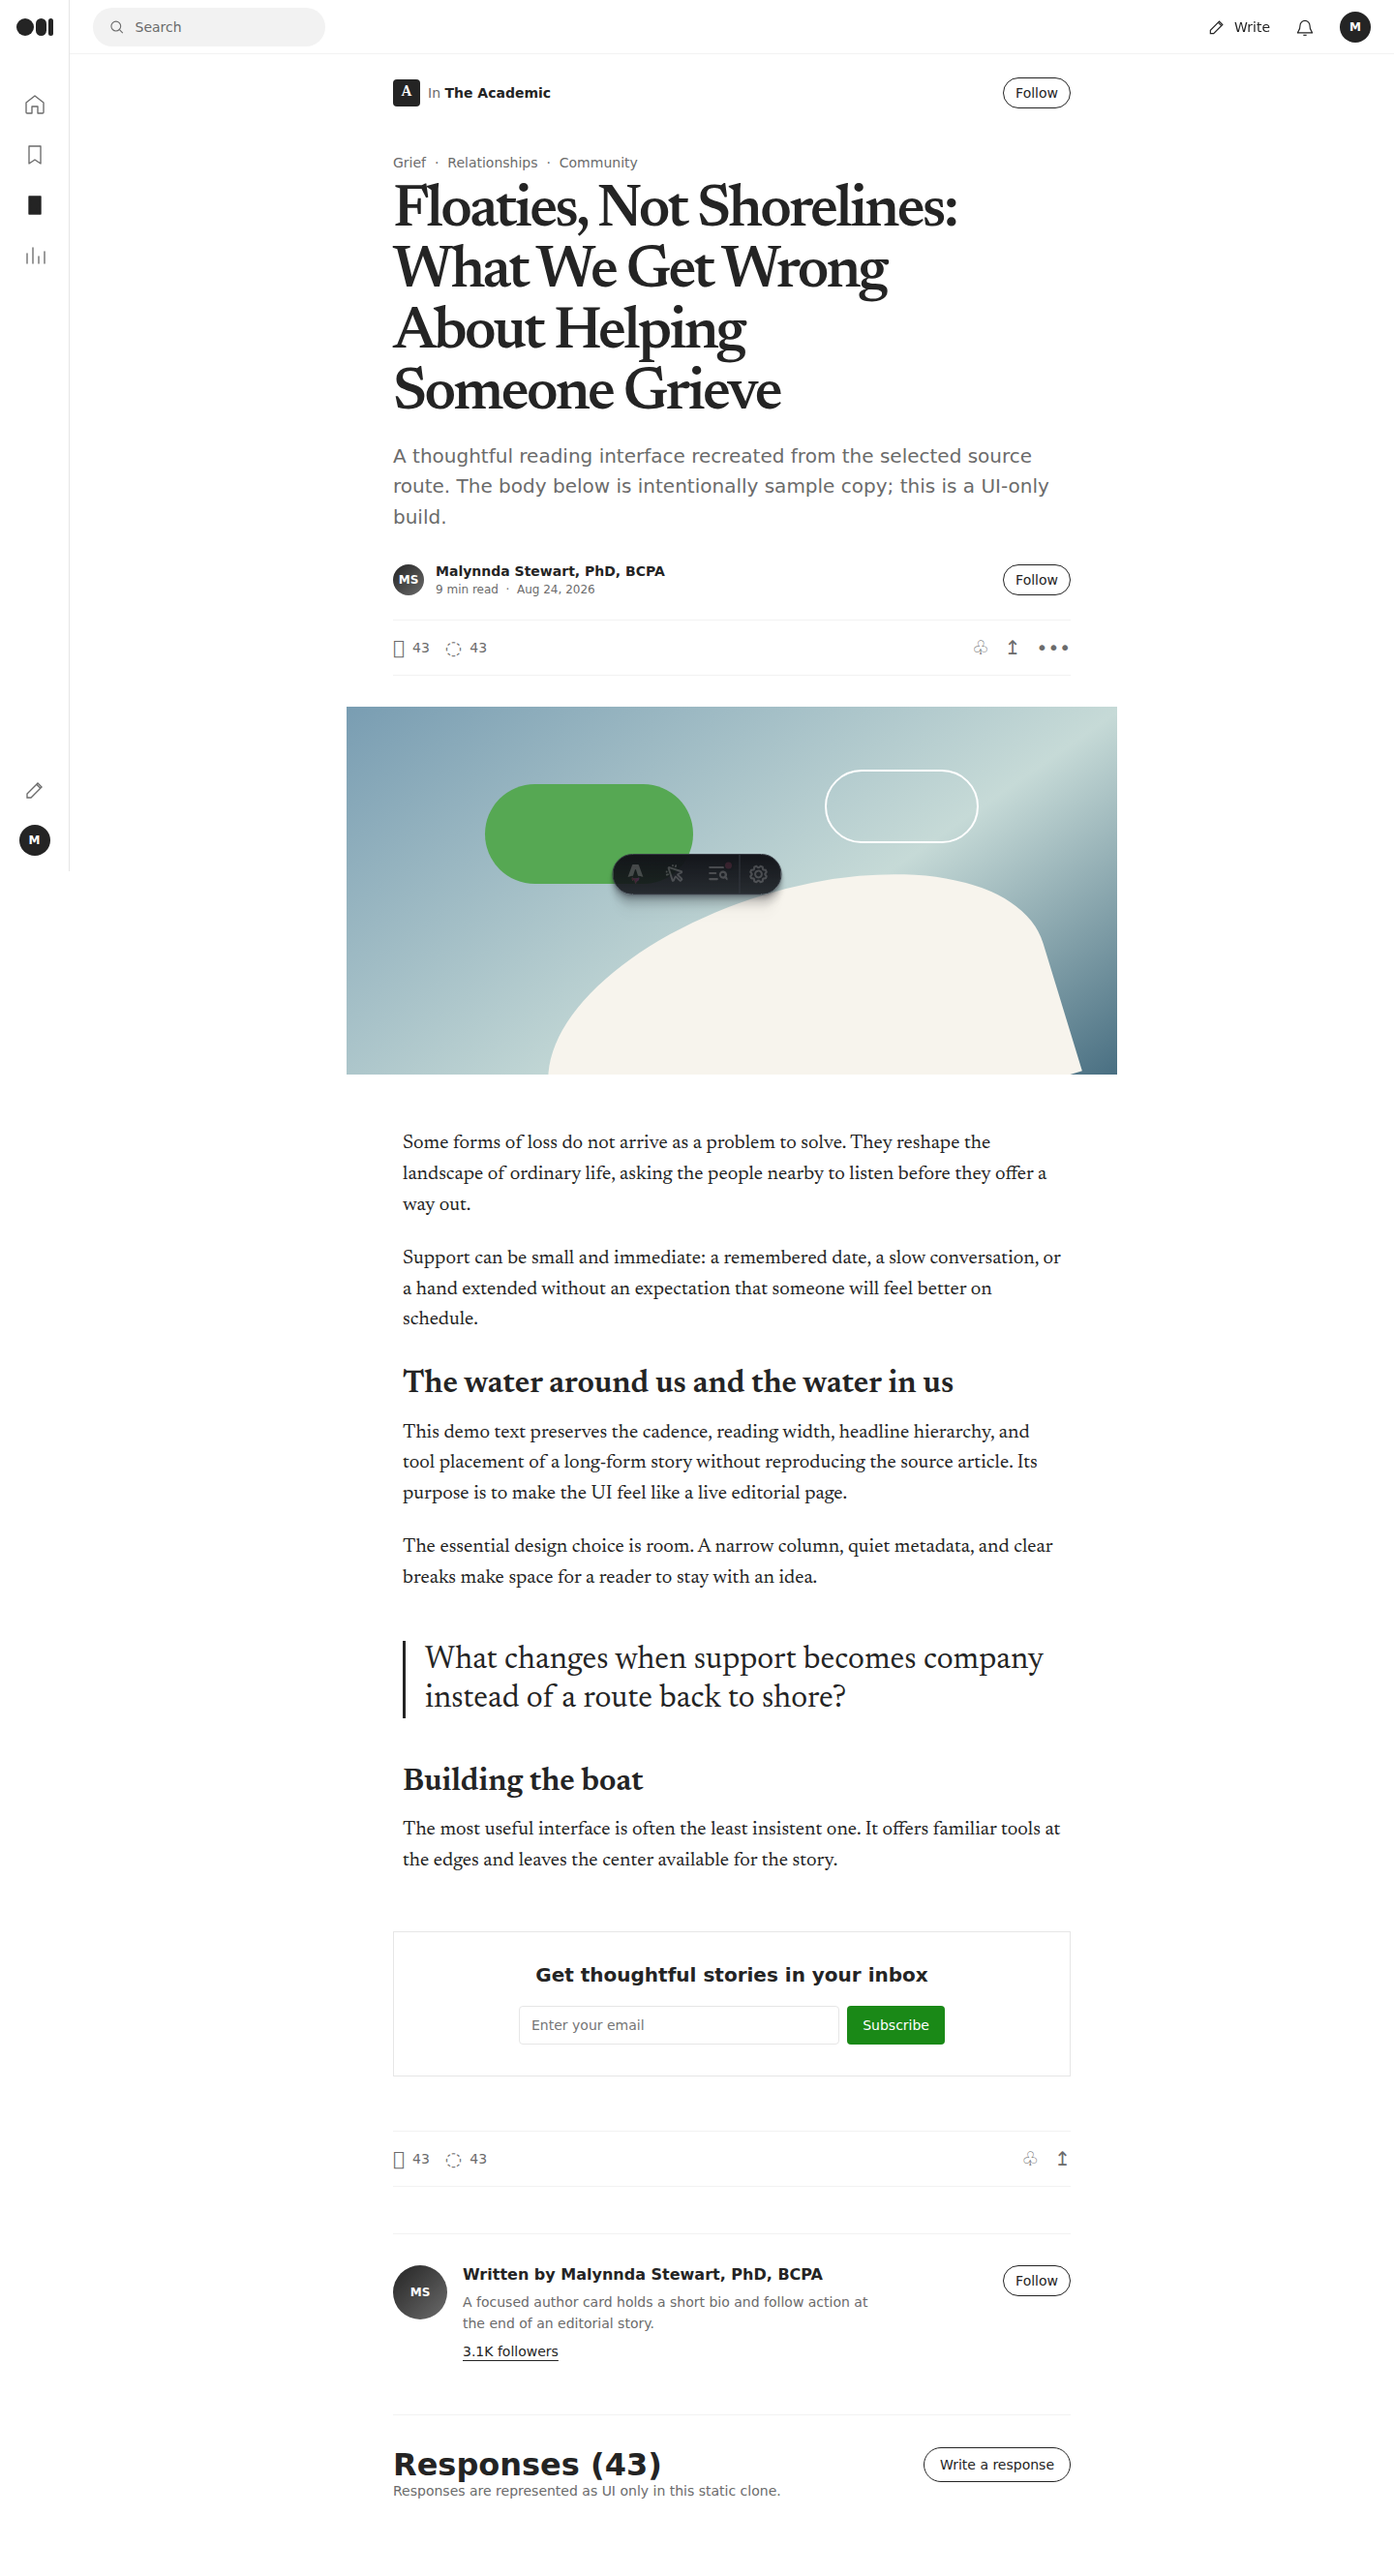
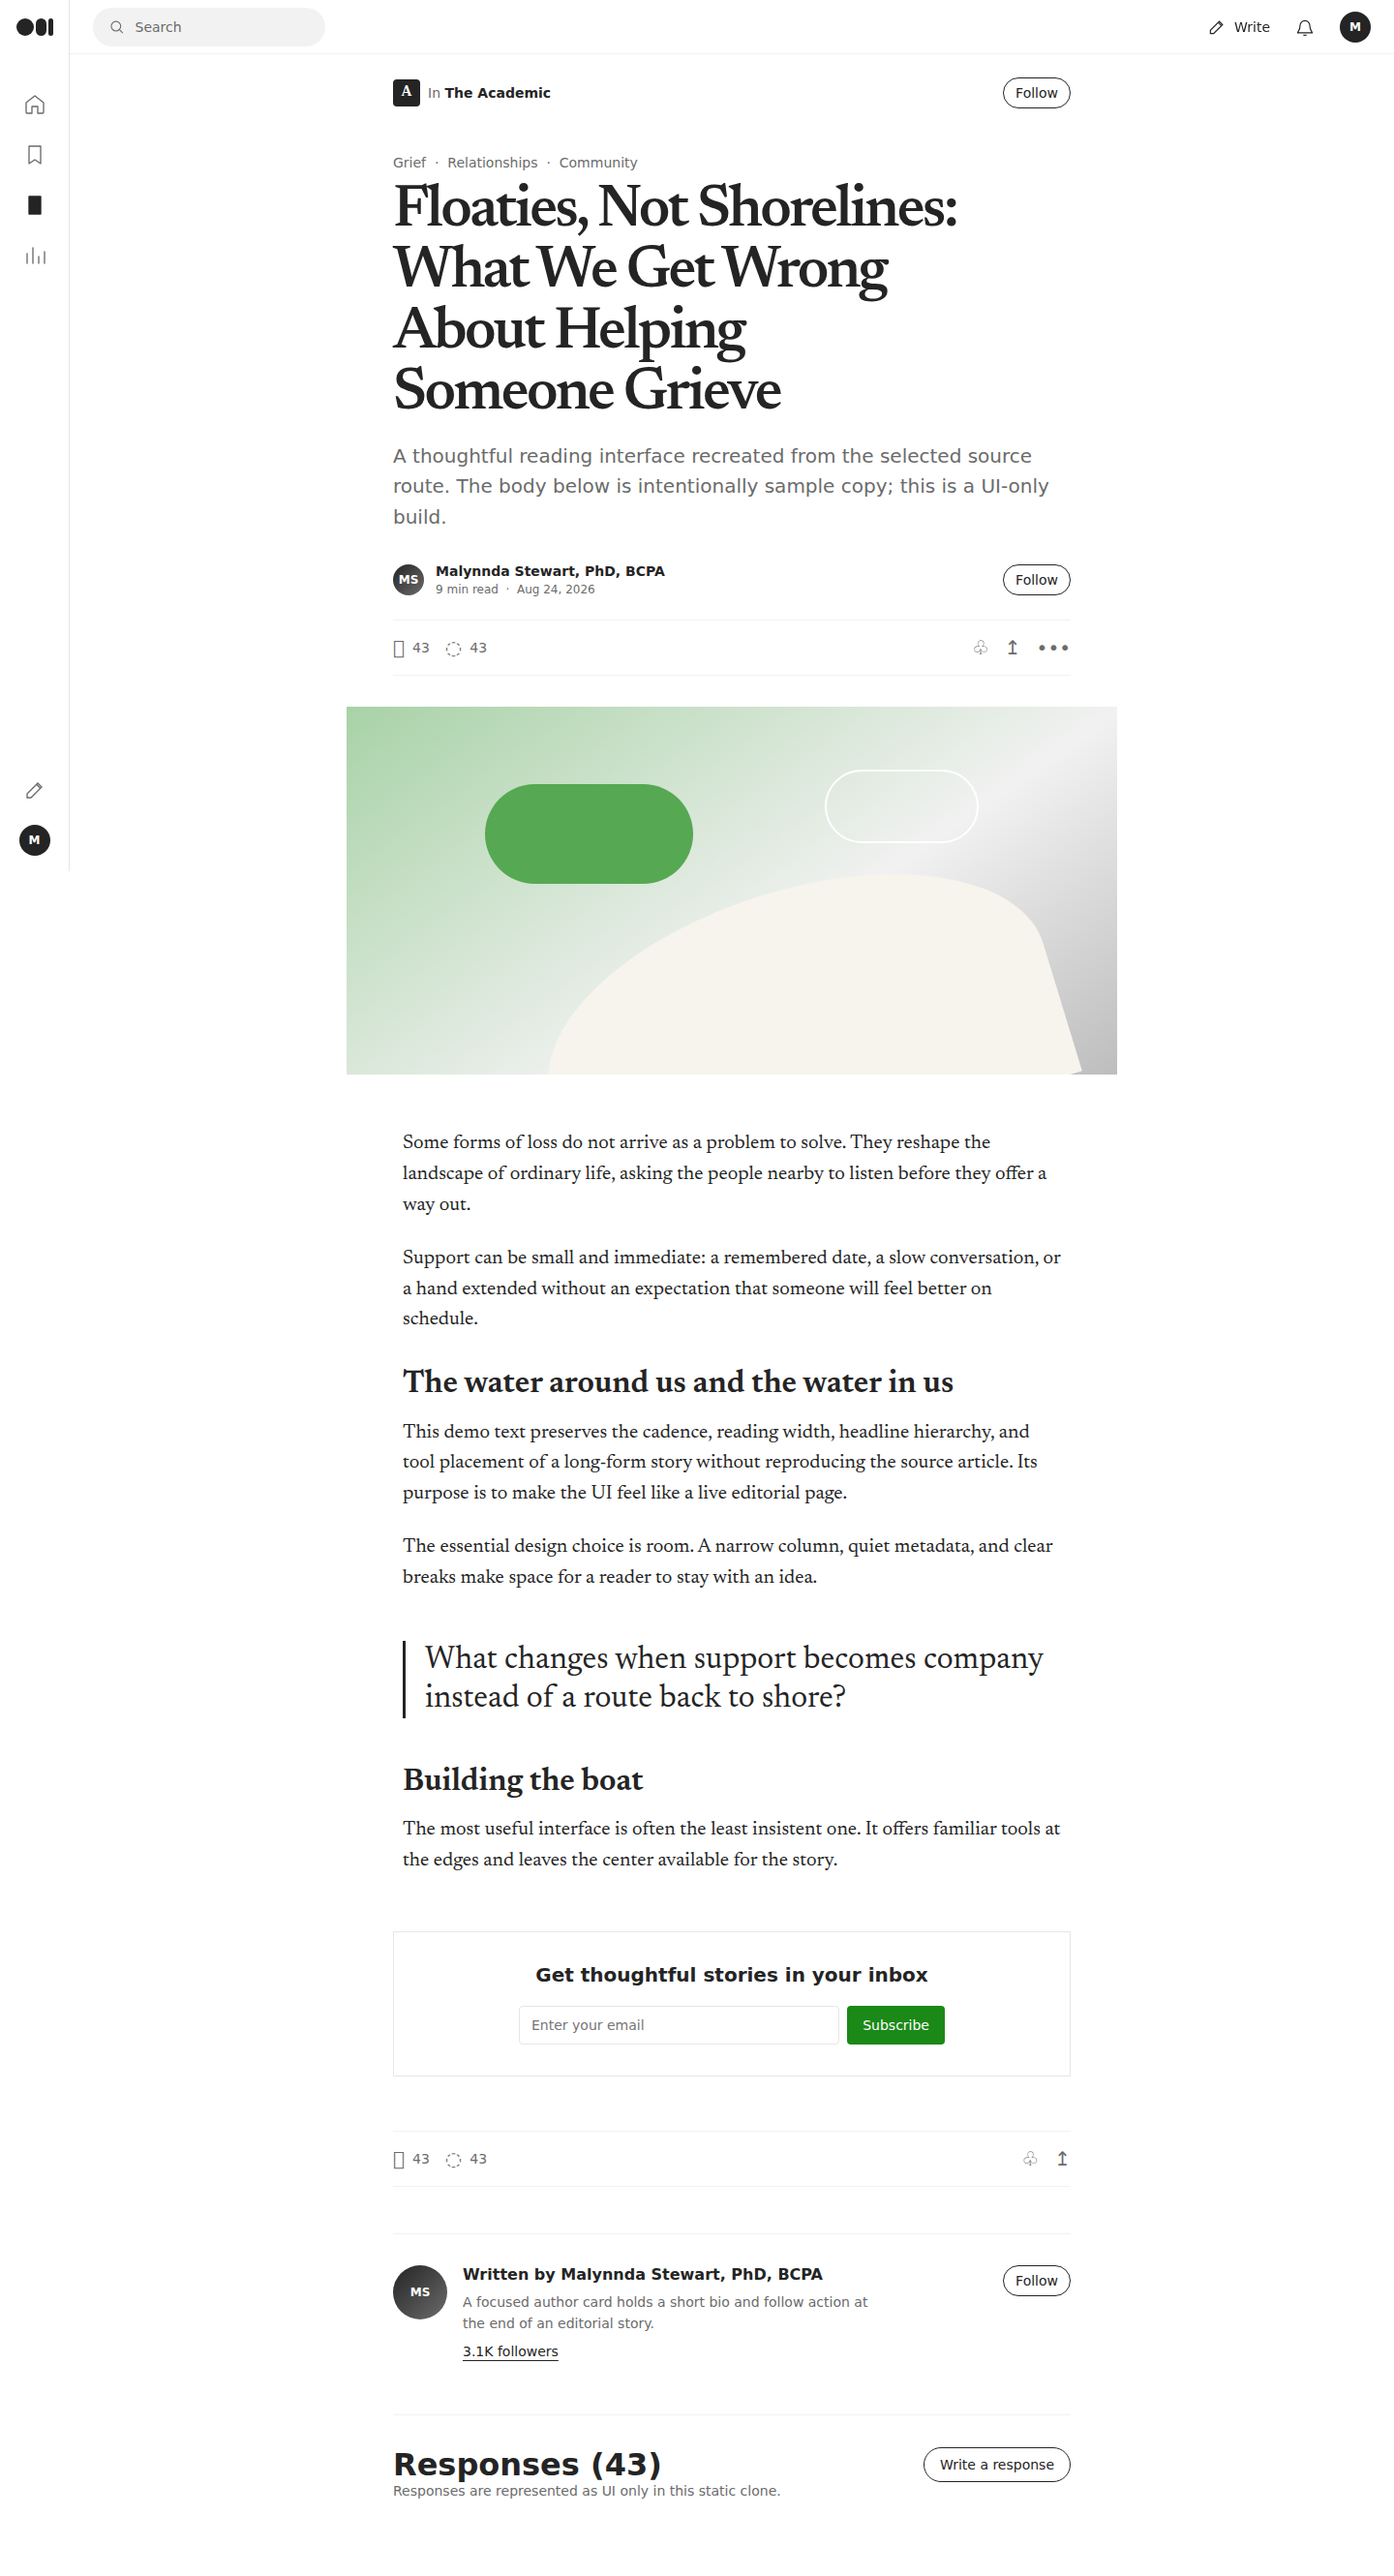
docs: 📄 update medium-com QA screenshots and behaviors doc

Changed region(s): [[0.25, 0.2495, 0.8125, 0.4367]]

diff --git a/docs/research/medium-com/BEHAVIORS.md b/docs/research/medium-com/BEHAVIORS.md
@@ -53,3 +53,10 @@ The user-provided cookie jar loaded successfully, but both a standard cookie-bea
 - All source hero/thumbnail media is CSS-generated, rather than copied from a private account or sourced article.
 - User-specific lists and audience values are sample UI data.
 - No source scroll timing or exact computed hover property could be independently verified while Cloudflare blocks browser access.
+
+## Clone replay — 2026-09-02
+
+- Production preview loaded each scoped route at 1440px and 390px without browser-console errors.
+- Story: clap incremented from 43 to 44, save switched to a filled heart, and Follow switched to Following.
+- Lists: New list opened the native dialog, Cancel closed it, and Highlights updated its ARIA state and live status.
+- Audience: Story stats updated the UI-only live notice.
